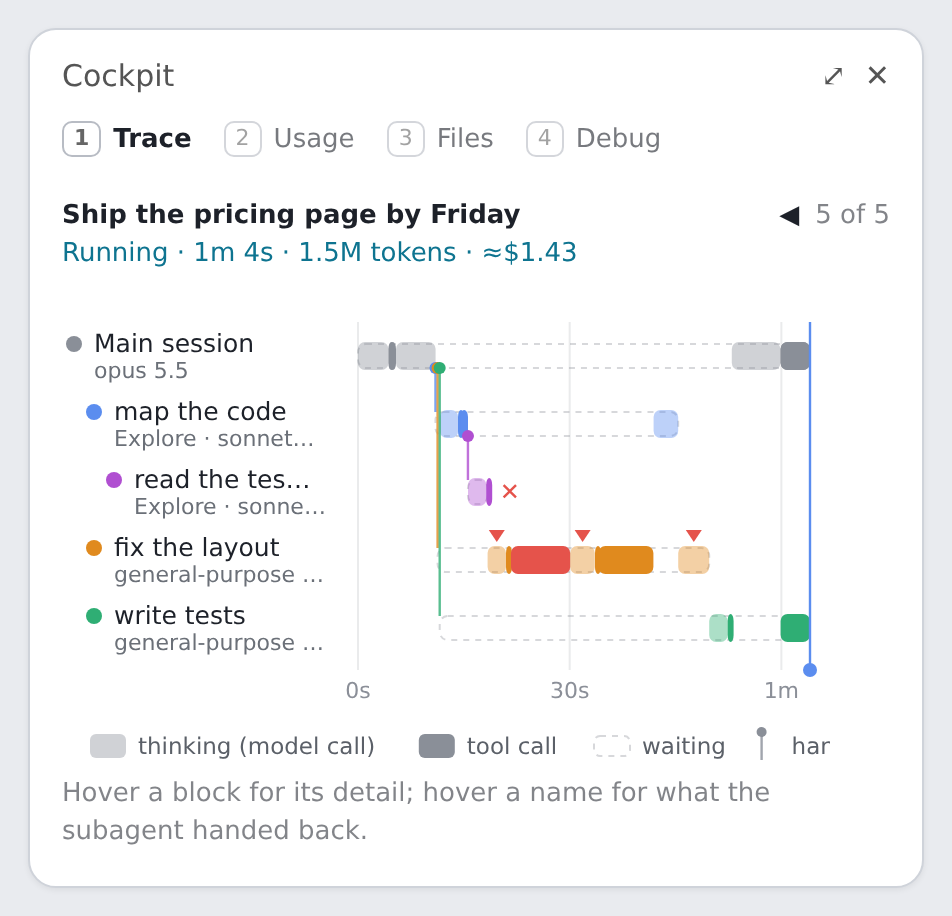
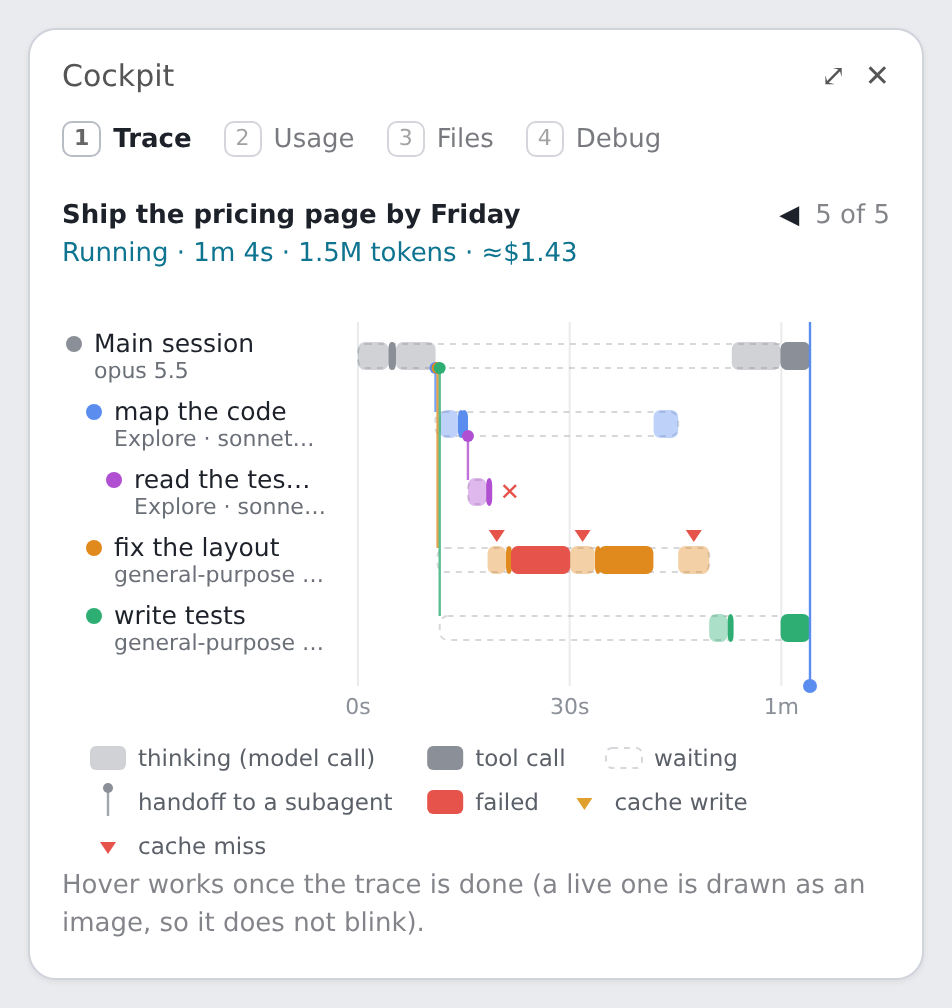
cockpit 0.17.2: live trace drawn as an image so desktop does not blink, interactive once done; legend wraps to the pane width

diff --git a/lib/lanes.js b/lib/lanes.js
@@ -119,13 +119,15 @@ export function lanesSvg(m, W, now) {
   const x1 = W - 10
   const span = m.T1 - m.T0
   const X = (t) => x0 + ((Math.min(Math.max(t, m.T0), m.T1) - m.T0) / span) * (x1 - x0)
-  const H = TOP + m.lanes.length * LANE + 26 + 30 // lanes, axis, legend
+  const legend = legendSvg(14, W - 14)
+  const H = TOP + m.lanes.length * LANE + 26 + 10 + legend.h // lanes, axis, legend (wrapped to the width)
+  const AX = H - legend.h - 10 // the axis labels' baseline
   let s = ''
   // grid and ticks
   const step = tickStep(span, Math.floor((x1 - x0) / 70))
   for (let at = 0; at <= span; at += step) {
     const x = X(m.T0 + at)
-    s += `<line x1="${x}" y1="${TOP}" x2="${x}" y2="${H - 52}" class="grid"/><text x="${x}" y="${H - 38}" class="tick" text-anchor="middle">${tickLabel(at)}</text>`
+    s += `<line x1="${x}" y1="${TOP}" x2="${x}" y2="${AX - 14}" class="grid"/><text x="${x}" y="${AX}" class="tick" text-anchor="middle">${tickLabel(at)}</text>`
   }
   m.lanes.forEach((l, i) => {
     const y = TOP + i * LANE + LANE / 2
@@ -154,9 +156,9 @@ export function lanesSvg(m, W, now) {
   })
   if (m.live) {
     const nx = X(now)
-    s += `<line x1="${nx}" y1="${TOP}" x2="${nx}" y2="${H - 52}" class="now"/><circle cx="${nx}" cy="${H - 52}" r="3.5" class="nowdot"/>`
+    s += `<line x1="${nx}" y1="${TOP}" x2="${nx}" y2="${AX - 14}" class="now"/><circle cx="${nx}" cy="${AX - 14}" r="3.5" class="nowdot"/>`
   }
-  s += legendSvg(14, H - 14)
+  s += `<g transform="translate(0,${AX + 10})">${legend.svg}</g>`
   const css = `.lg{font-size:11.5px;fill:#5b6068}@media (prefers-color-scheme:dark){.lg{fill:#b4b8bf}}text{font-family:ui-sans-serif,system-ui,-apple-system,"Segoe UI",sans-serif}.name{font-size:12.5px;fill:#1d2129;font-weight:500}.sub{font-size:11px;fill:#6b7078}.tick{font-size:11px;fill:#8b8f98}.grid{stroke:#8b8f98;stroke-opacity:.18}.wait{fill:none;stroke:#8b8f98;stroke-opacity:.35;stroke-dasharray:3 3}.hand{fill:none;stroke-width:1.2;stroke-opacity:.8}.blk:hover{stroke:#1d2129;stroke-width:1.2}.fail{font-size:12px;fill:#e5534b}.now{stroke:#5b8def;stroke-width:1.2}.nowdot{fill:#5b8def}@media (prefers-color-scheme:dark){.name{fill:#e8e9ec}.sub{fill:#a2a6ad}.blk:hover{stroke:#fff}}`
   return { svg: `<svg xmlns="http://www.w3.org/2000/svg" width="${W}" height="${H}" viewBox="0 0 ${W} ${H}"><style>${css}</style>${s}</svg>`, h: H }
 }
@@ -165,8 +167,8 @@ const CACHE = { miss: '#e5534b', write: '#e0a030' }
 // A small triangle over a model call that missed or wrote the cache.
 const tri = (x, y, c, tip) => `<path d="M${(x - 4).toFixed(1)} ${y - 6} h8 l-4 6 z" fill="${c}"><title>${esc(tip)}</title></path>`
 
-// The legend, drawn with the same marks the lanes use.
-function legendSvg(x, y) {
+// The legend, drawn with the same marks the lanes use, wrapped into rows that fit the width: { svg, h }.
+function legendSvg(x, maxX) {
   const c = '#8a8f98'
   const items = [
     [`<rect x="0" y="-6" width="18" height="12" rx="3" fill="${c}" fill-opacity=".4"/>`, 'thinking (model call)'],
@@ -179,11 +181,17 @@ function legendSvg(x, y) {
   ]
   let s = ''
   let cx = x
+  let y = 12
   for (const [mark, label] of items) {
+    const w = 30 + label.length * 6.6
+    if (cx > x && cx + w > maxX) {
+      cx = x
+      y += 22
+    }
     s += `<g transform="translate(${cx},${y})">${mark}<text x="24" y="4" class="lg">${label}</text></g>`
-    cx += 30 + label.length * 6.4
+    cx += w
   }
-  return s
+  return { svg: s, h: y + 10 }
 }
 
 // Cut a label to the room it has, by an estimated character width (the SVG has no layout engine).

diff --git a/lib/views.js b/lib/views.js
@@ -284,10 +284,12 @@ function traceTab(Box, Text, S, now, cols, ui = {}) {
   if (surface === 'desktop' && Svg) {
     const W = Math.max(320, cols * 8)
     const g = lanesSvg(m, W, now)
-    out.push(Svg({ source: g.svg, alt: m.lanes.map((l) => l.name + ' (' + l.sub + ')').join(', '), width: W, height: g.h, isInteractive: true }))
+    // A live trace is a plain image: an interactive SVG sits in a frame that reloads (blinks) on every update.
+    // Once the trace is done it stops changing, and becomes interactive for its tooltips.
+    out.push(Svg({ source: g.svg, alt: m.lanes.map((l) => l.name + ' (' + l.sub + ')').join(', '), width: W, height: g.h, isInteractive: !m.live }))
   } else out.push(...termLanes(Box, Text, m, cols))
   if (m.hidden) out.push(note(Text, '+ ' + m.hidden + ' more subagents not drawn'))
-  if (surface === 'desktop' && Svg) out.push(note(Text, 'Hover a block for its detail; hover a name for what the subagent handed back.'))
+  if (surface === 'desktop' && Svg) out.push(note(Text, m.live ? 'Hover works once the trace is done (a live one is drawn as an image, so it does not blink).' : 'Hover a block for its detail; hover a name for what the subagent handed back.'))
   else out.push(termLegend(Box, Text))
   return out
 }

diff --git a/tests/cockpit.test.ts b/tests/cockpit.test.ts
@@ -399,7 +399,7 @@ test('the Trace tab draws one lane per loop on both surfaces, with tooltips on D
   expect(await d.find({ type: 'Text', text: /^fix the checkout$/ })).toBeDefined() // the paste's tags are gone from the title
   expect(await d.find({ type: 'Text', text: /Running · .* tokens/ })).toBeDefined()
   const svg = await d.find({ type: 'Svg' })
-  expect(svg.props.isInteractive).toBe(true)
+  expect(svg.props.isInteractive).toBe(false) // live: an image, so updates do not blink
   expect(svg.props.alt).toMatch(/Main session .*read the tests \(Explore/)
   expect(svg.props.source).toContain('Bash: pnpm test checkout')
   expect(svg.props.source).toContain('failed: 2 of 14 checkout tests fail')

diff --git a/README.md b/README.md
@@ -18,7 +18,7 @@ A Claude Code mod: one recorder, many views. Built against Claude Code 2.1.289. 
 - **crew pill** (only while subagents are running): done / total, one square per subagent in spawn order (blue running, grey done, red failed, amber stopped, hollow = planned and not started; brighter as its context fills), and failed / running counts. Crews over forty are grouped, each square showing the busiest state in its group.
 
 **`/cockpit` pane** (keys 1-4 switch tabs):
-1. **Trace** (opens first): where the time went in one prompt, as swimlanes. The main session and each subagent (under the one that spawned it) get a lane with their model; their thinking (faded) and tool calls (solid) sit on one time axis, a dashed track while they wait, a line where work was handed off, failed calls in red; a triangle over a model call marks a cache write (amber) or a cache miss (red), and its tooltip says how much was read and written and whether the cache had expired. A drawn legend explains every mark. On Desktop, hover a block for its detail (the command or file, how long, tokens, the error); hover a name for the subagent's answer. ◀ ▶ page through earlier prompts; a turn its subagents wake stays in the same trace.
+1. **Trace** (opens first): where the time went in one prompt, as swimlanes. The main session and each subagent (under the one that spawned it) get a lane with their model; their thinking (faded) and tool calls (solid) sit on one time axis, a dashed track while they wait, a line where work was handed off, failed calls in red; a triangle over a model call marks a cache write (amber) or a cache miss (red), and its tooltip says how much was read and written and whether the cache had expired. A drawn legend explains every mark. On Desktop, once the trace is done, hover a block for its detail (a live trace is drawn as a plain image: an interactive SVG reloads its frame on every update and blinks) (the command or file, how long, tokens, the error); hover a name for the subagent's answer. ◀ ▶ page through earlier prompts; a turn its subagents wake stays in the same trace.
 2. **Usage**: context, the 5-hour and weekly windows with reset times, task, plan and agent progress, money (API accounts) or worth (subscriptions), session counters and turn-time stats; then the prompt cache: main-window countdown, the subagent caches, read / wrote / new totals, every model or effort switch with the tokens it re-cached, and a stacked bar per request; at the bottom, calls, failures and p50 / p95 per tool for the whole session
 3. **Files**: reads, edits and repeated reads per file. Paths are relative to the workspace folder; a file outside it is shown in full with ↗
 4. **Debug**: which events the recorder has actually seen, and when. Start here if a panel is empty.
